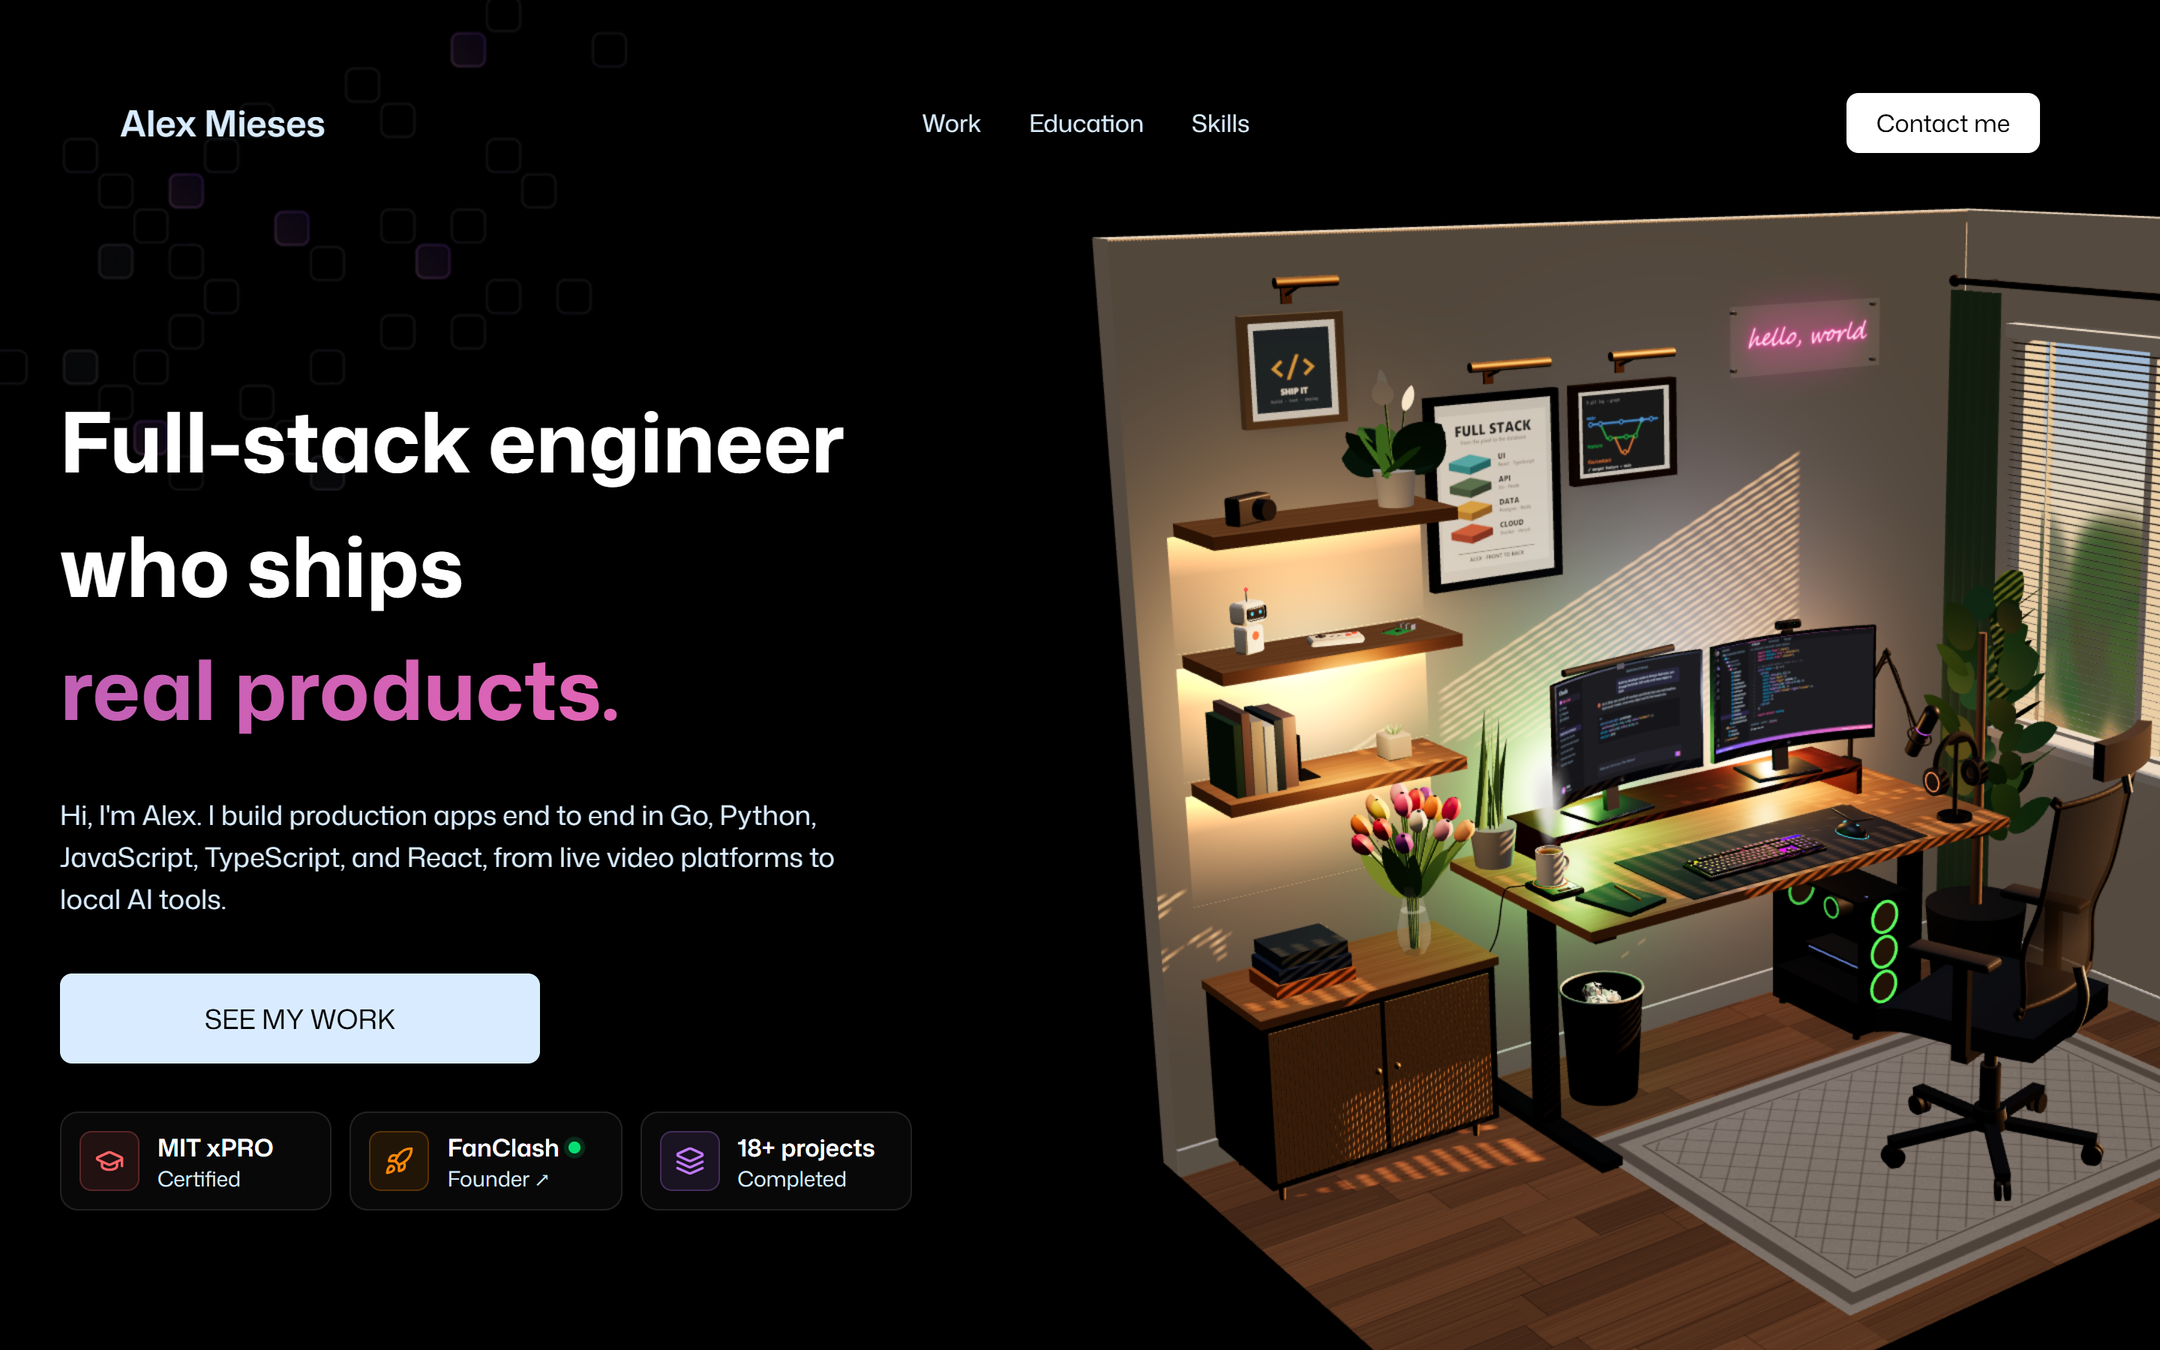
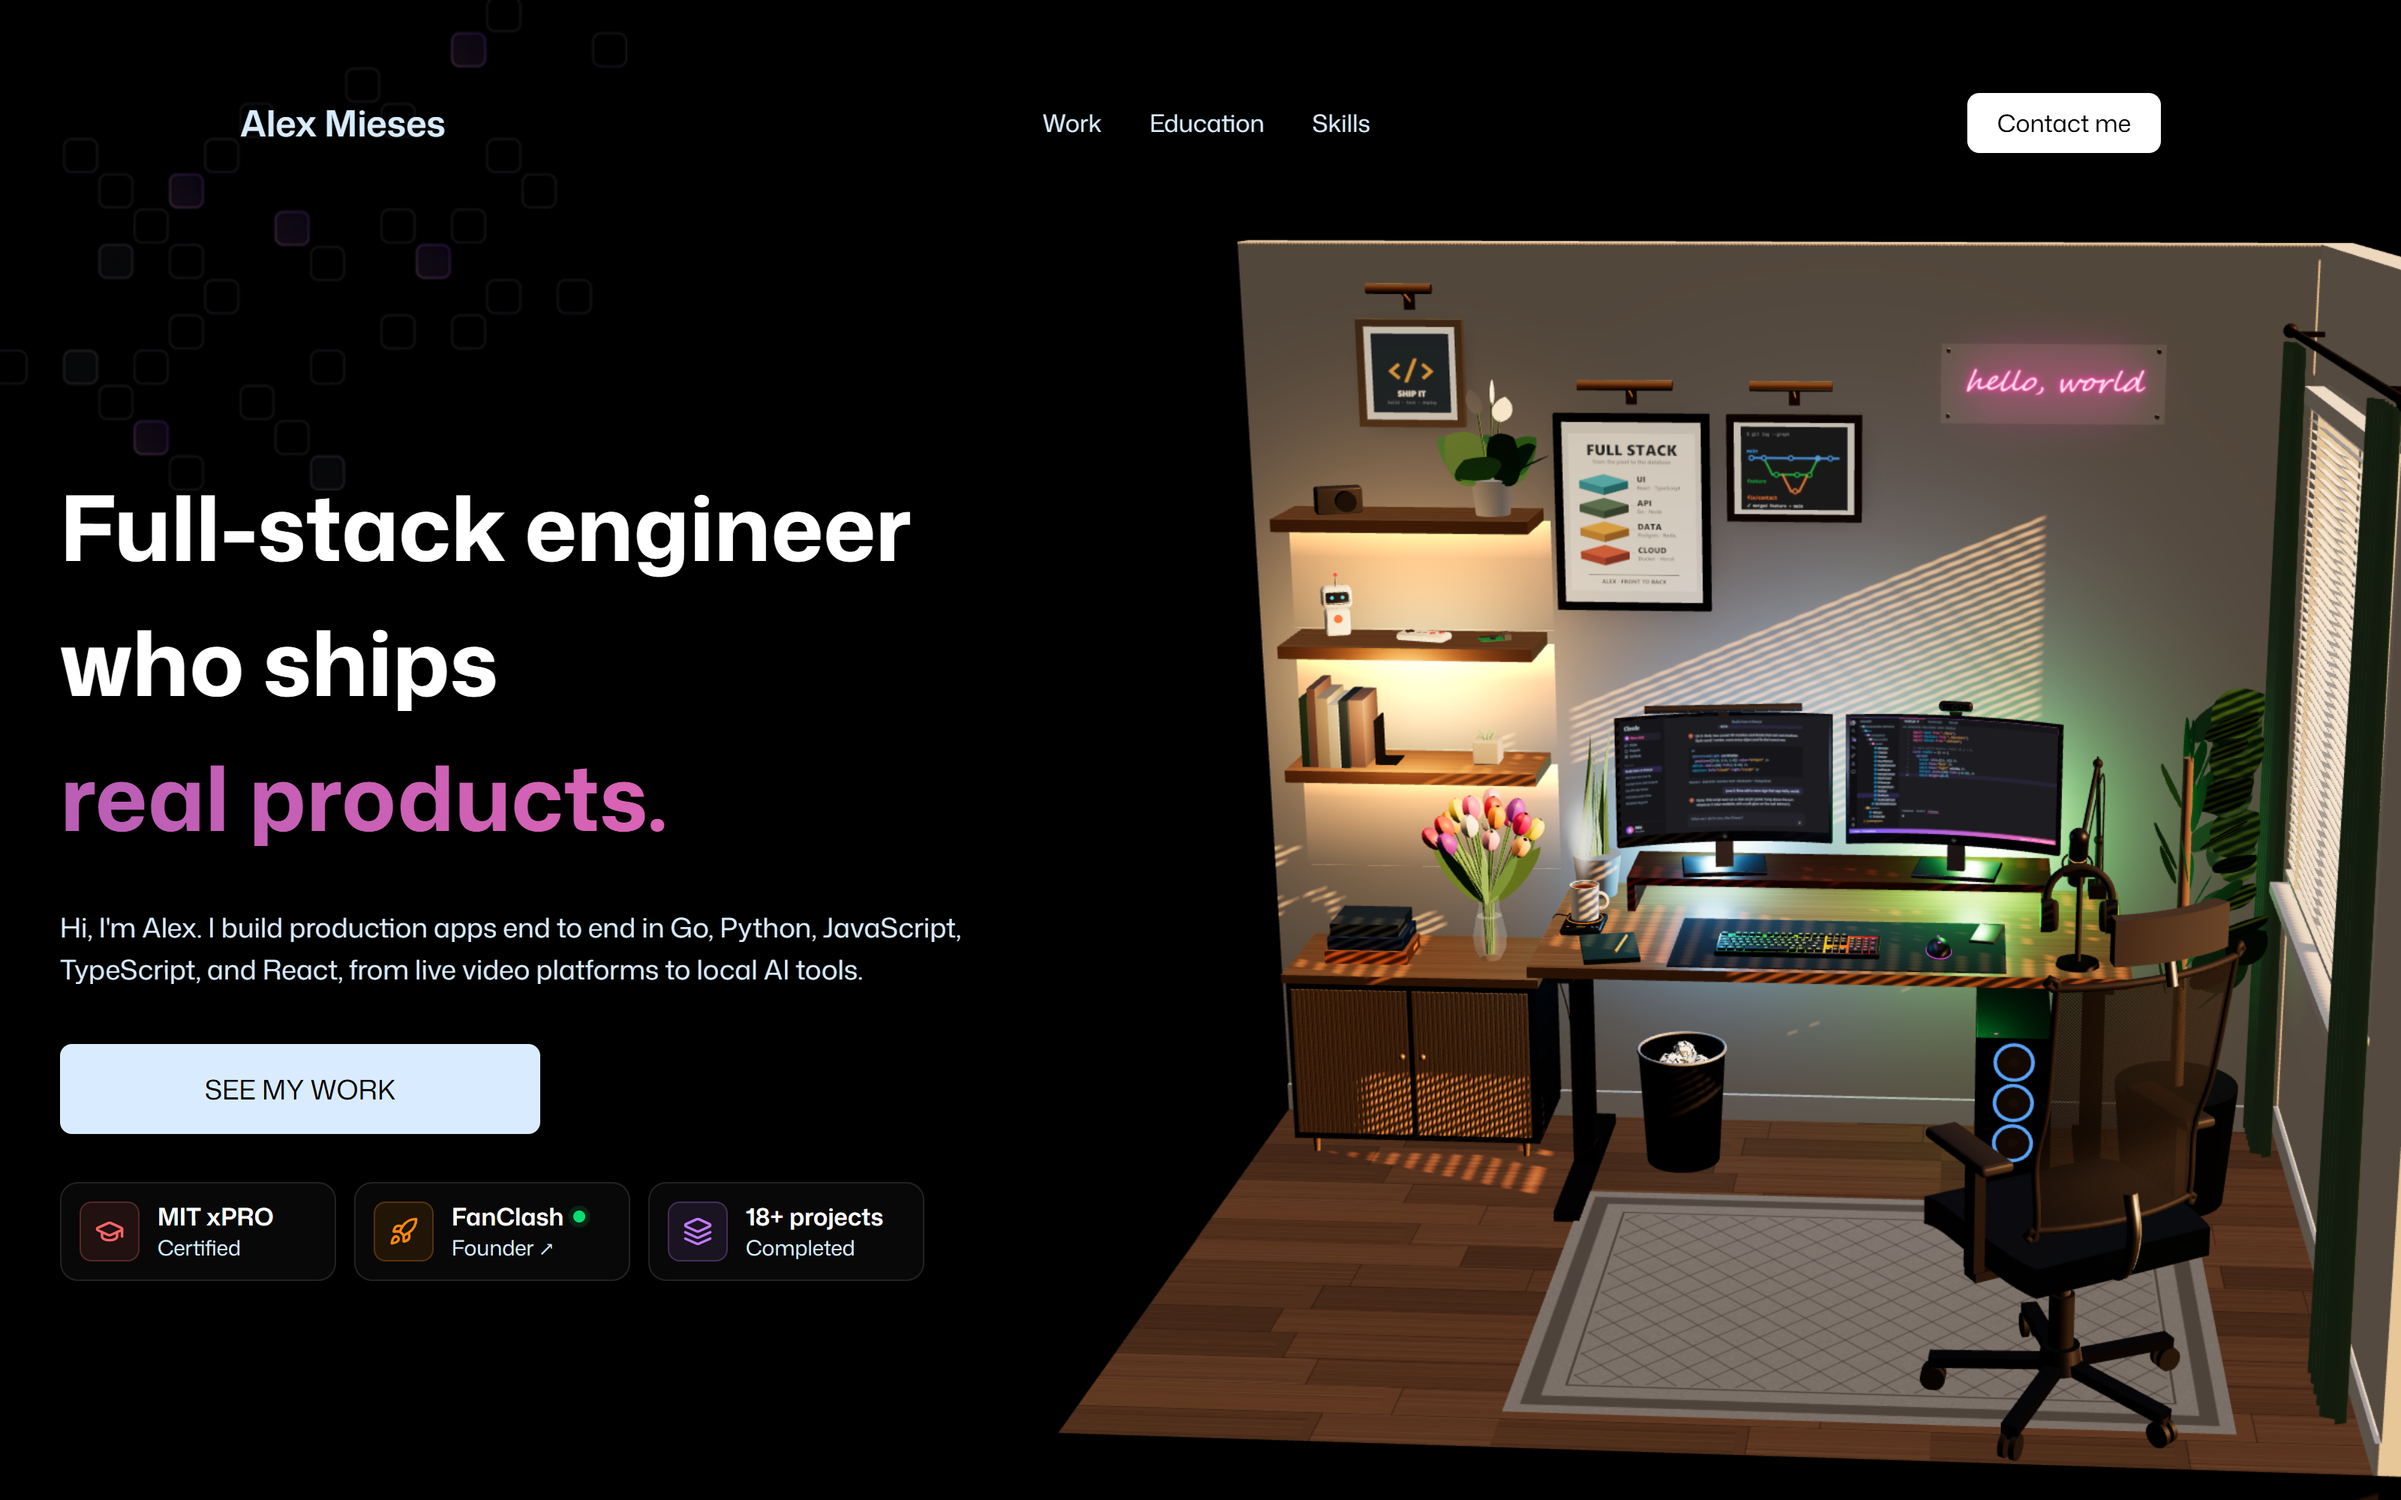
README: front-on hero screenshot and a full-size animated demo
- Hero screenshot retaken front-on with the chair moved aside, so the
  desk and both curved monitors are clear (3200x2000 PNG at 2x).
- The demo GIF now shows the full hero frame, like the screenshot,
  at 1280x720 (13.9 MB), fills the README width, and opens full size
  when clicked.

diff --git a/README.md b/README.md
@@ -4,8 +4,10 @@
   </a>
   <p><sub>Click the screenshot to see it full size.</sub></p>
 
-  <img src="docs/hero-demo.gif" width="520" alt="The 3D studio in motion: the chair is dragged aside to show the desk, the camera orbits all the way round the room past the back of the desk, then zooms onto the left monitor, where Claude says Welcome back, Alex and a conversation types itself out, and onto the right monitor, where VS Code types out the studio's code" />
-  <p><sub>Drag to look around, scroll to zoom, click a monitor to read its screen.</sub></p>
+  <a href="docs/hero-demo.gif" title="Click to see full size">
+    <img src="docs/hero-demo.gif" width="100%" alt="The hero in motion: the chair is dragged aside to show the desk, the camera orbits all the way round the room past the back of the desk, then zooms onto the left monitor, where Claude says Welcome back, Alex and a conversation types itself out, and onto the right monitor, where VS Code types out the studio's code" />
+  </a>
+  <p><sub>Drag to look around, scroll to zoom, click a monitor to read its screen. Click the animation to see it full size.</sub></p>
 
   <div>
     <img src="https://img.shields.io/badge/-React_19-20232A?style=for-the-badge&logo=react&logoColor=61DAFB" />
